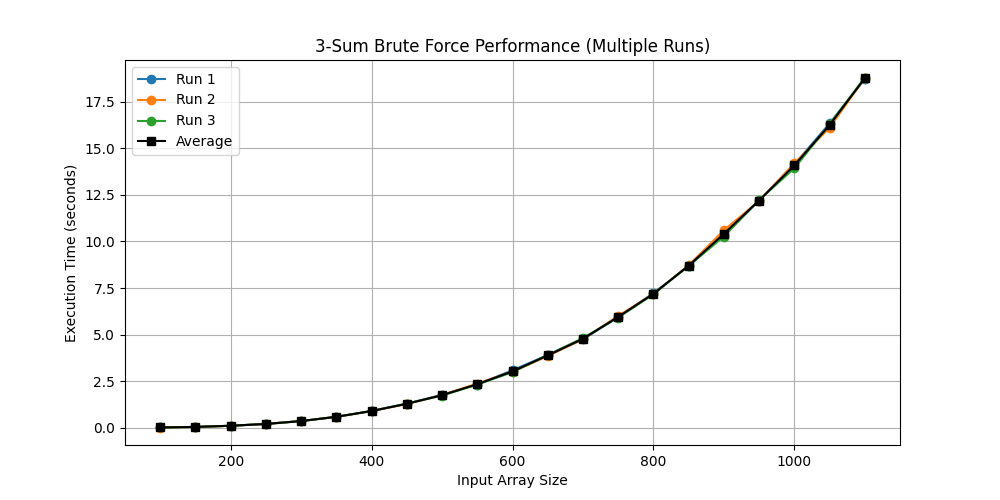
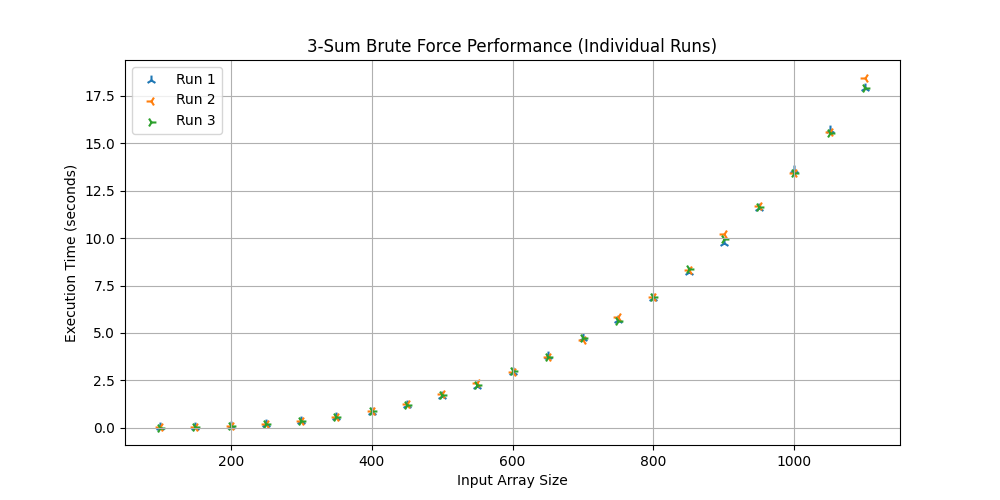
might have completed

diff --git a/Assignment1/Lecture2/3sum.py b/Assignment1/Lecture2/3sum.py
@@ -1,6 +1,7 @@
 import matplotlib.pyplot as plt
 import time
-from list_gen import generate_random_integers  # Assume the utility function is available
+from list_gen import generate_random_integers  
+
 
 # Brute Force Solution for 3-Sum Problem
 def three_sum_brute_force(nums):
@@ -14,13 +15,13 @@ def three_sum_brute_force(nums):
     for i in range(n):
         for j in range(i + 1, n):
             for k in range(j + 1, n):
-                if nums[i] + nums[j] + nums[k] == 0:
+                if nums[i] + nums[j] + nums[k] == 0:  # "0" is the sum
                     result.add(tuple(sorted((nums[i], nums[j], nums[k]))))  # Sort to ensure uniqueness
 
     return list(result)
 
 # Measure Performance with Averaging
-def measure_time(repeats=3, sizes=range(100, 1101, 50)):
+def measure_time(repeats=5, sizes=range(100, 1101, 50)):
     """
     Measures runtime of the brute force solution for given input sizes.
     Each data point is averaged over 'repeats' executions.
@@ -40,10 +41,10 @@ def measure_time(repeats=3, sizes=range(100, 1101, 50)):
 
     return list(sizes), times
 
-# Visualize Performance with Multiple Runs
-def visualize_performance():
+# Visualize Separate Runs
+def visualize_runs():
     """
-    Plots performance data for three separate runs and their averages.
+    Plots performance data for three separate runs.
     """
     sizes = range(100, 1101, 50)
     all_times = []
@@ -53,29 +54,43 @@ def visualize_performance():
         _, times = measure_time(repeats=1, sizes=sizes)  # Each run is measured once
         all_times.append(times)
 
+    markers = ["2","3","4"]
+
     # Plot three separate runs as points
     plt.figure(figsize=(10, 5))
-    for i, run_times in enumerate(all_times, 1):
-        plt.scatter(sizes, run_times, label=f'Run {i}', s=50)  # Scatter plot for individual runs
+    for i, (run_times, marker) in enumerate(zip(all_times, markers), 1):
+        plt.scatter(sizes, run_times, label=f'Run {i}', s=50, marker=marker)  # Scatter plot for individual runs
 
-    # Compute average times for all runs
-    avg_times = [sum(run[i] for run in all_times) / len(all_times) for i in range(len(sizes))]
-    plt.scatter(sizes, avg_times, color='black', label='Average', s=60, marker='s')  # Scatter plot for averages
-
-    plt.title('3-Sum Brute Force Performance (Multiple Runs)')
+    plt.title('3-Sum Brute Force Performance (Individual Runs)')
     plt.xlabel('Input Array Size')
     plt.ylabel('Execution Time (seconds)')
     plt.legend()
     plt.grid(True)
     plt.show()
 
-# Log-Log Plot and Linear Regression
+# Visualize Average Times
+def visualize_average():
+    """
+    Plots the average execution time for multiple runs.
+    """
+    sizes, avg_times = measure_time(repeats=5, sizes=range(100, 1101, 50))
+
+    plt.figure(figsize=(10, 5))
+    plt.plot(sizes, avg_times, marker='o', label='Average Time', color='black', linestyle='--')
+    plt.title('3-Sum Brute Force Performance (Average Time)')
+    plt.xlabel('Input Array Size')
+    plt.ylabel('Execution Time (seconds)')
+    plt.legend()
+    plt.grid(True)
+    plt.show()
+
+
 def log_log_analysis():
     """
     Performs log-log analysis and plots with a straight-line fit.
     """
     import math  # Moved import here to avoid unused imports
-    sizes, times = measure_time(repeats=3, sizes=range(100, 1101, 200))
+    sizes, times = measure_time(repeats=3, sizes=range(100, 1101, 50))
     log_sizes = [math.log(size) for size in sizes]
     log_times = [math.log(time) for time in times]
 
@@ -91,8 +106,8 @@ def log_log_analysis():
 
     # Plot log-log data and regression line
     plt.figure(figsize=(10, 5))
-    plt.plot(log_sizes, log_times, 'o', label='Log-Log Data')
-    # plt.plot(log_sizes, [k * x + b for x in log_sizes], 'r-', label=f'Fit (k={k:.2f})')
+    plt.plot(log_sizes, log_times, 'o', label='Log-Log Data')  # Blue points for log-log data
+    plt.plot(log_sizes, [k * x + b for x in log_sizes], 'r-', label=f'Fit (y = {k:.2f}x + {b:.2f})')  # Red line for regression
     plt.title('Log-Log Plot and Linear Regression')
     plt.xlabel('log(Input Array Size)')
     plt.ylabel('log(Execution Time)')
@@ -102,10 +117,8 @@ def log_log_analysis():
 
     print(f"Time Complexity Coefficient (k): {k:.2f}")
 
-# Main
-if __name__ == "__main__":
-    # Visualize separate runs and their averages
-    visualize_performance()
+# log_log_analysis()
 
-    # Perform log-log analysis
-    log_log_analysis()
+# visualize_runs()
+
+visualize_average()
